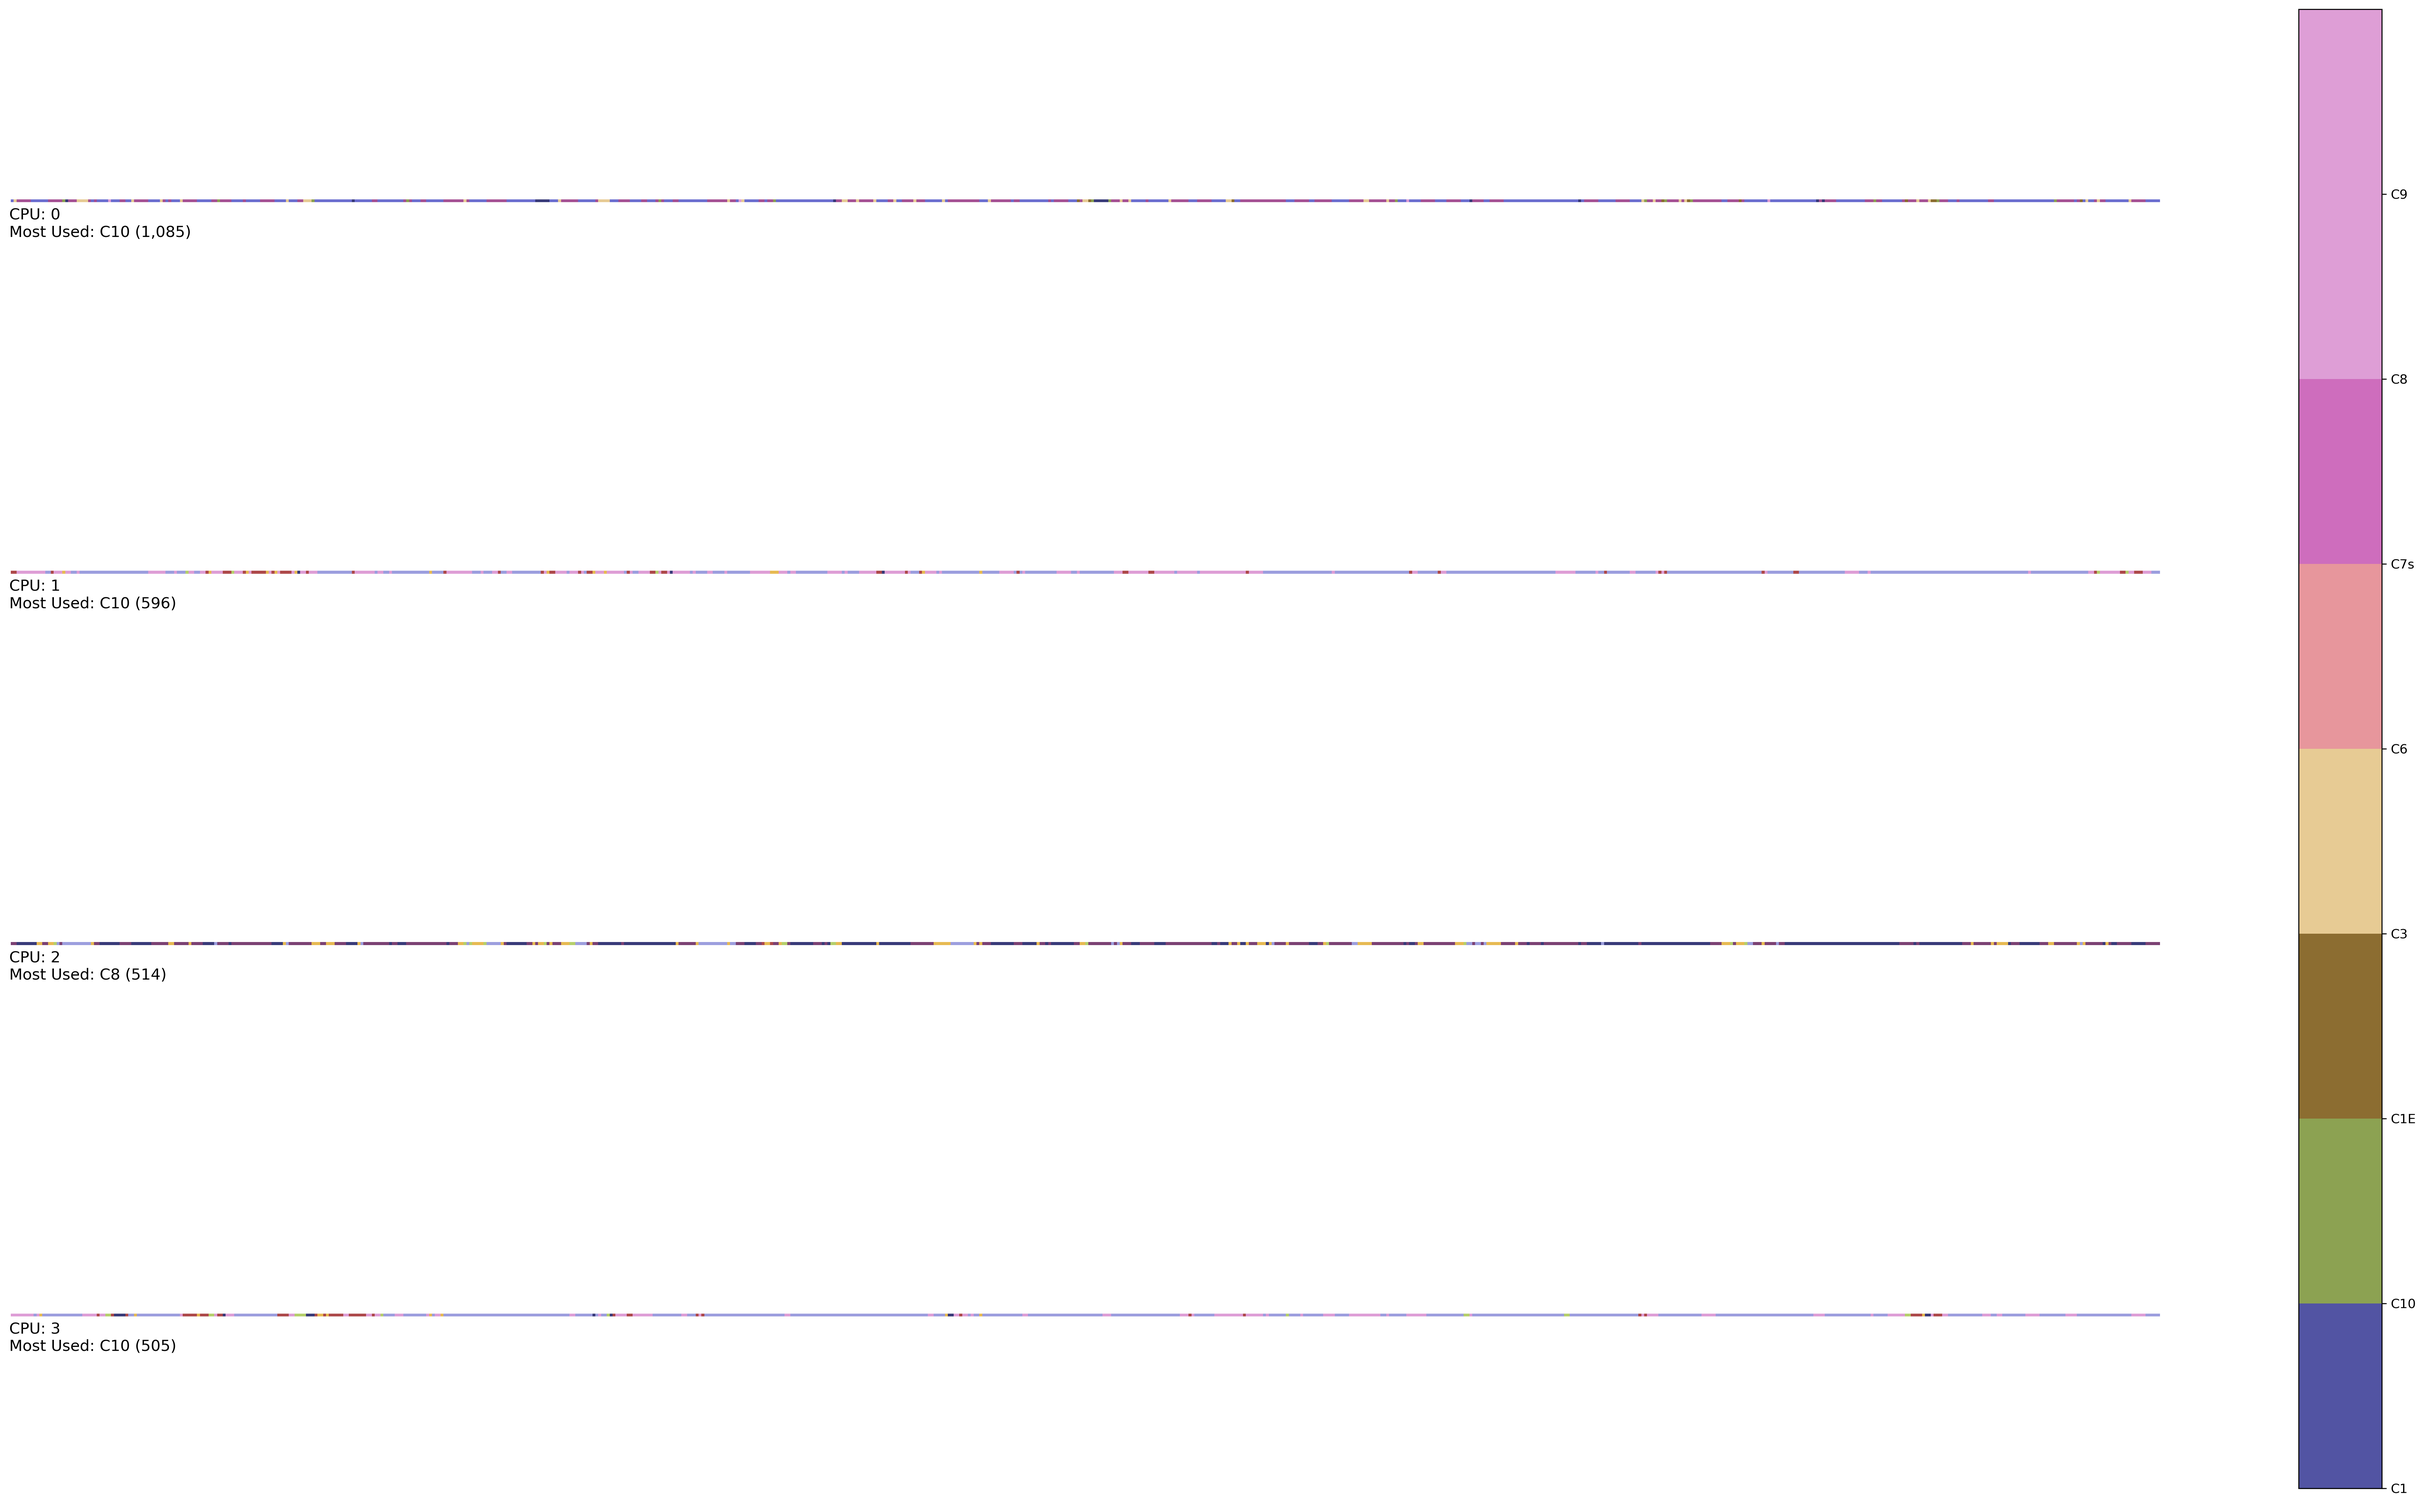
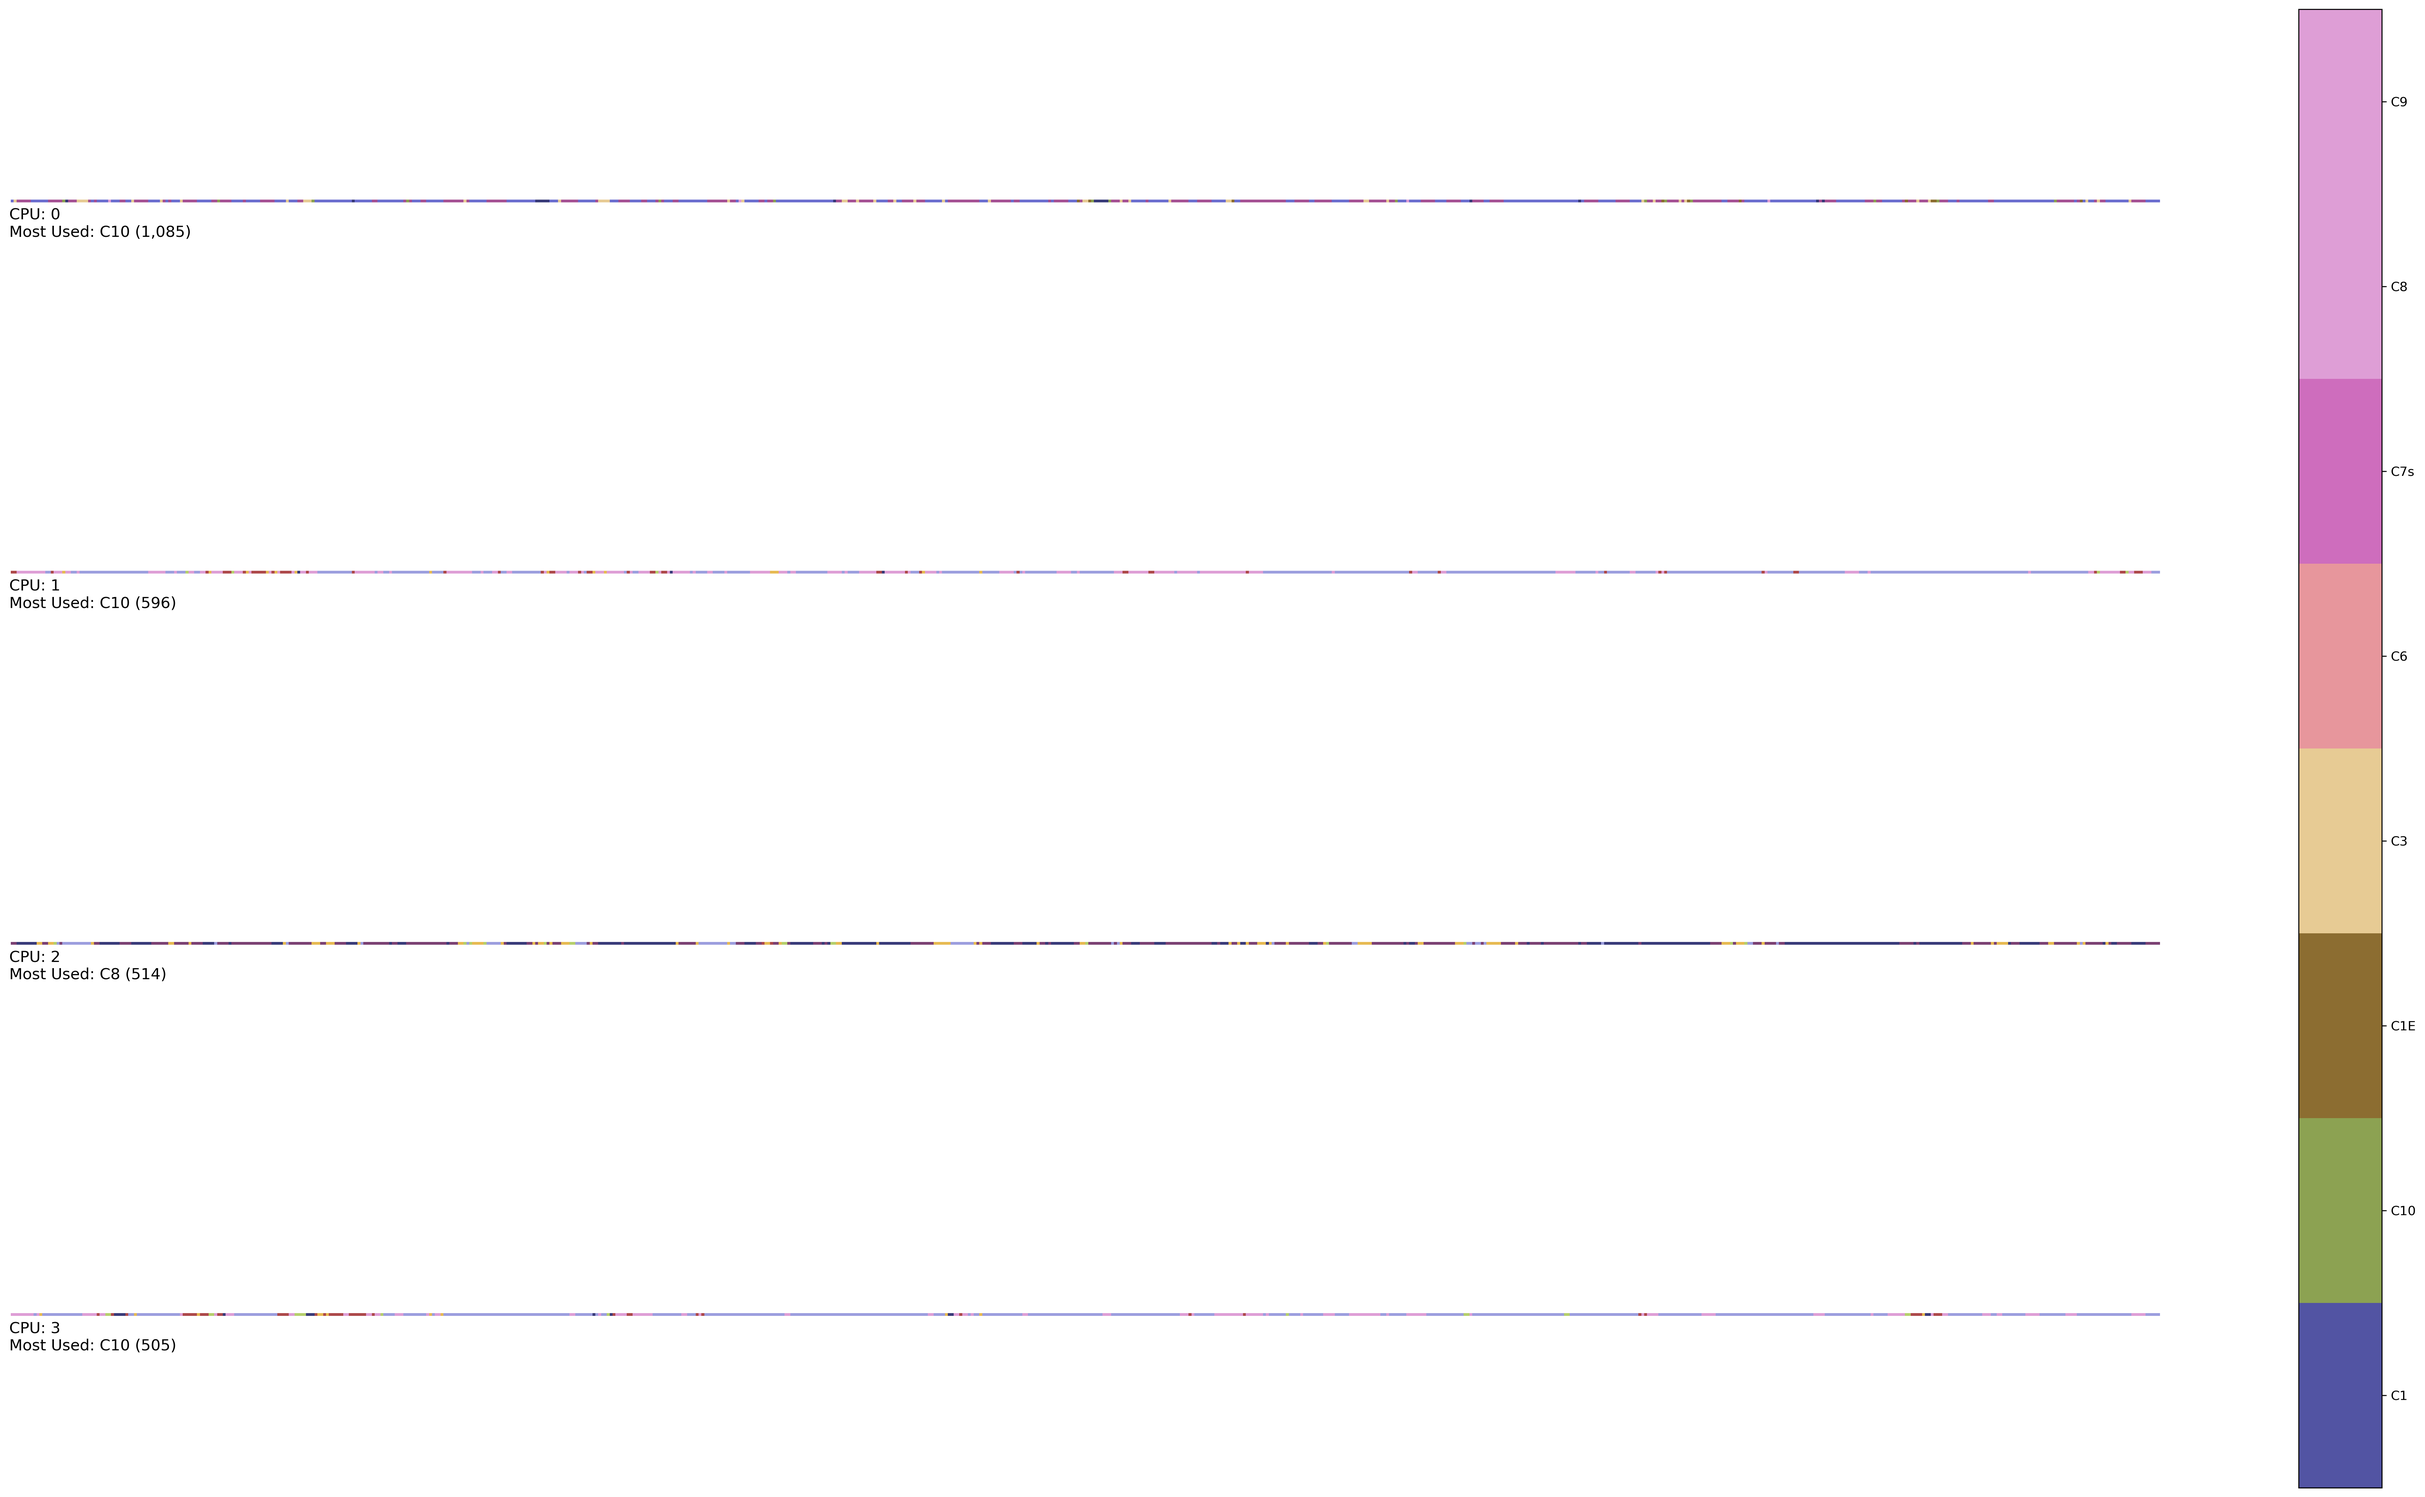
idle-governor: center ticks on cstate timemap

diff --git a/images/idle-governor/idle-governor-cstate-timemap.py b/images/idle-governor/idle-governor-cstate-timemap.py
@@ -3,7 +3,6 @@
 import pandas as pd
 import numpy as np
 import matplotlib.pyplot as plt
-import sys
 import os
 
 FILE_BASE = os.path.splitext(__file__)[0]
@@ -36,7 +35,7 @@ for i, cpu in enumerate(df['CPU'].unique()):
 bounds = np.linspace(0,len(cstates),len(cstates)+1)
 cbar_ax = fig.add_axes([0.95, 0.1, 0.03, 0.8])
 cbar = fig.colorbar(im, cax=cbar_ax, boundaries=bounds, ticks=bounds)
-cbar.set_ticks(list(set(cstate_map.values())))
+cbar.set_ticks(np.arange(len(list(set(cstate_map.values()))))+0.5)
 cbar.set_ticklabels([cstate for cstate, value in sorted(cstate_map.items(), key=lambda x: x[1])])
 
 # remove borders and make is look more modern
